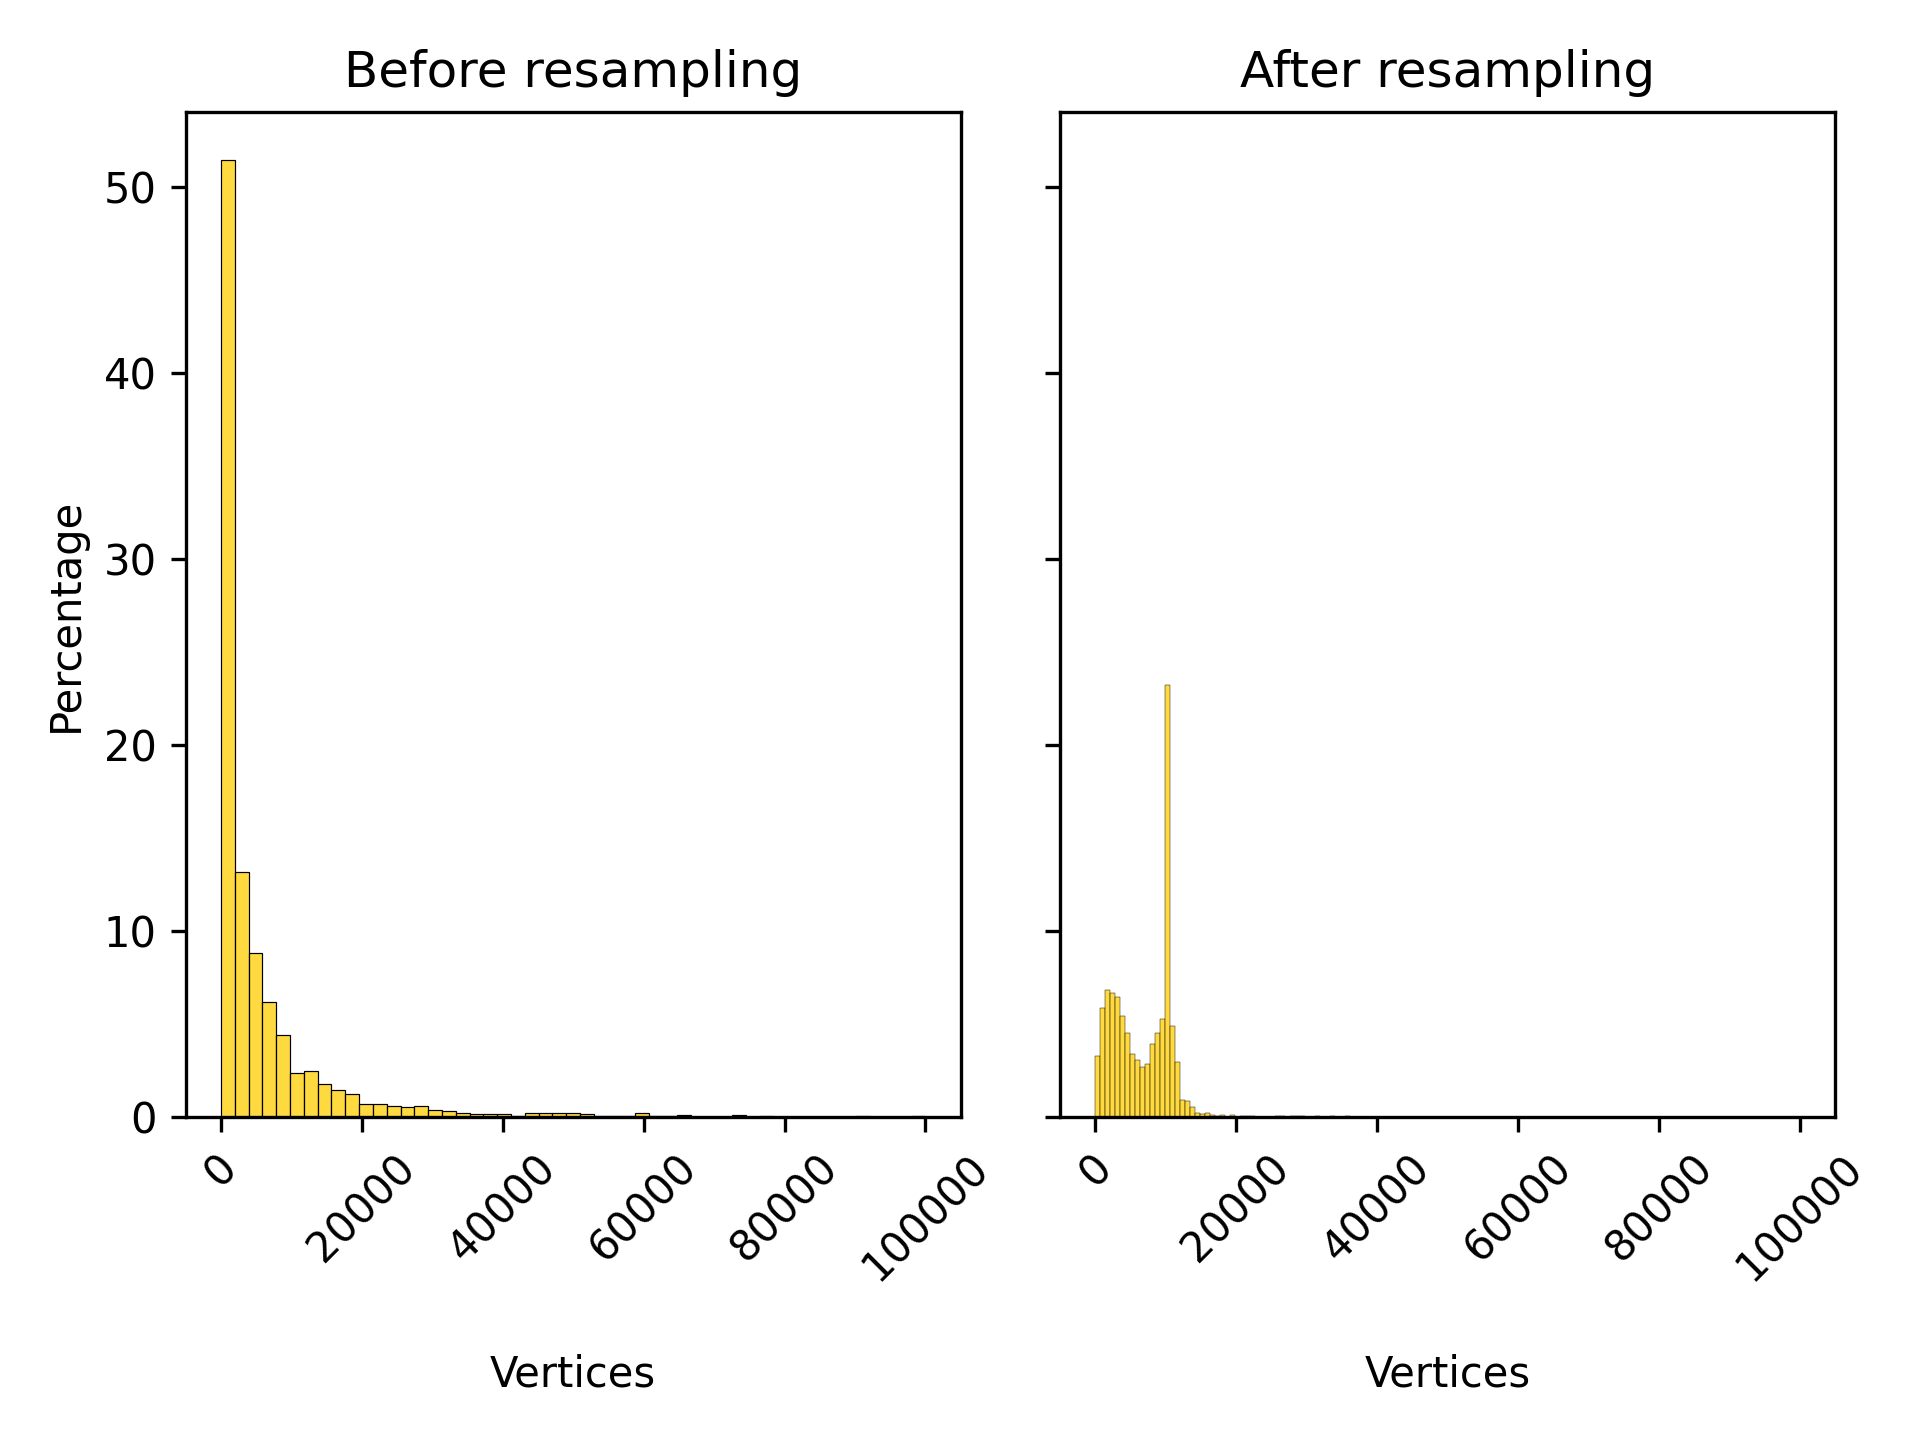
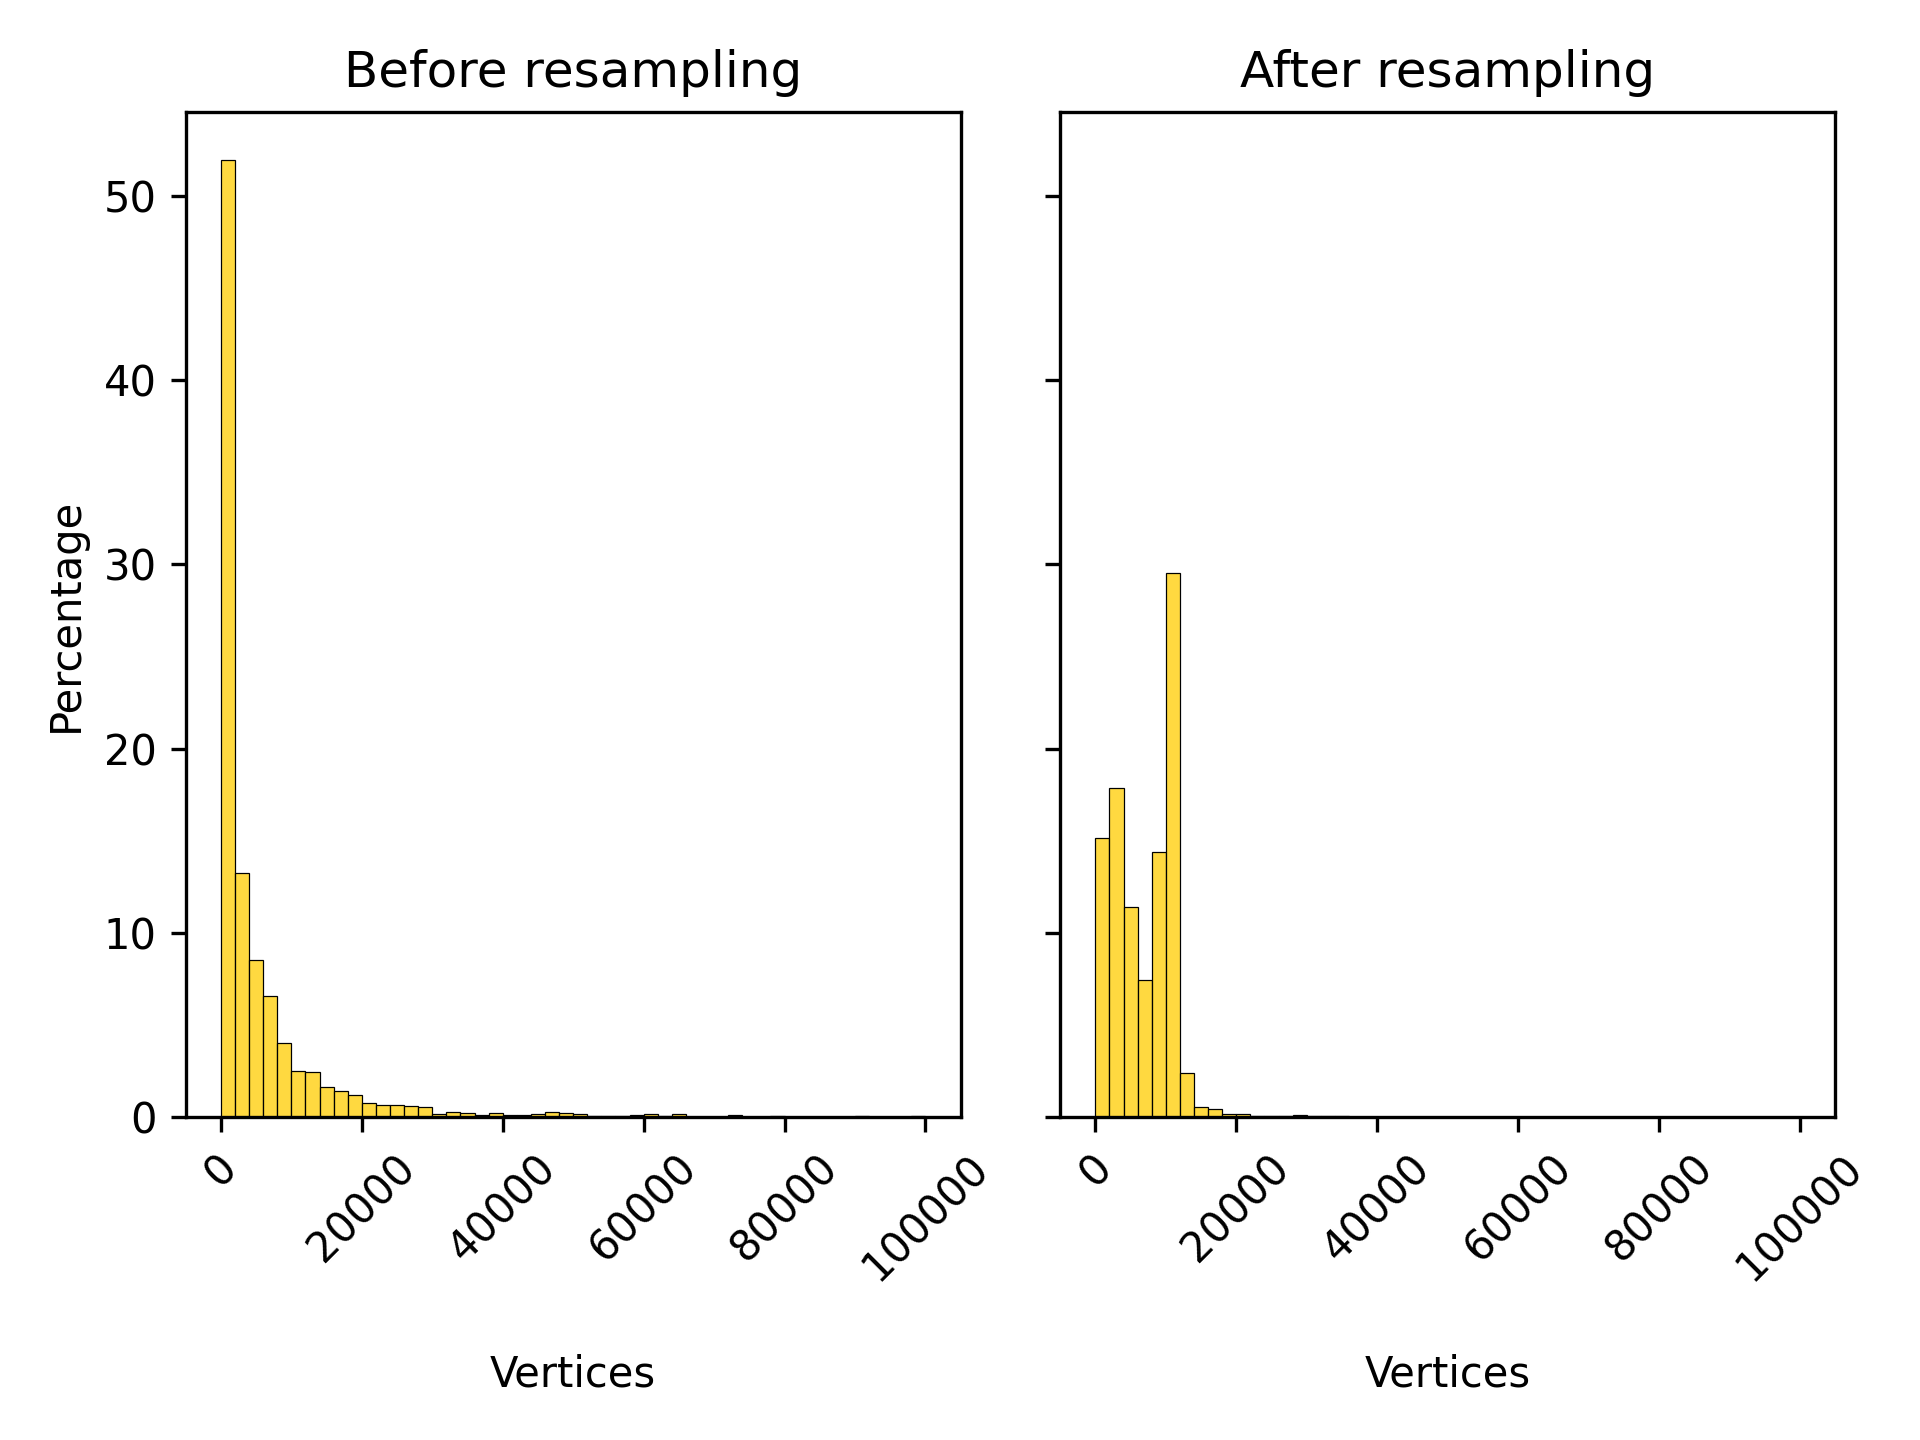
Fixed bin appearance on some histograms and added some examples of deformed meshes

diff --git a/Rorschach/visualization/visualize_data.py b/Rorschach/visualization/visualize_data.py
@@ -230,14 +230,14 @@ def hist_max_dim(mesh_info: pd.DataFrame, mesh_info_normalized: pd.DataFrame, co
     plt.clf()
 
 
-def hist_before_after(mesh_info, mesh_info_normalized, column: str, fp_save,
+def hist_before_after(mesh_info, mesh_info_normalized, column: str, fp_save, binwidth: float = None,
                       binrange: tuple = None, sharex: bool = True, sharey: bool = True) -> None:
     data_before = mesh_info[column].values
     data_after = mesh_info_normalized[column].values
 
     fig, axes = plt.subplots(1, 2, sharex=sharex, sharey=sharey)
-    sns.histplot(data=data_before, color=UU_YELLOW, ax=axes[0], stat="percent", edgecolor="black", bins="sqrt", binrange=binrange)
-    sns.histplot(data=data_after, color=UU_YELLOW, ax=axes[1], stat="percent", edgecolor="black", bins="sqrt", binrange=binrange)
+    sns.histplot(data=data_before, color=UU_YELLOW, ax=axes[0], stat="percent", edgecolor="black", bins="sqrt", binwidth=binwidth, binrange=binrange)
+    sns.histplot(data=data_after, color=UU_YELLOW, ax=axes[1], stat="percent", edgecolor="black", bins="sqrt", binwidth=binwidth, binrange=binrange)
 
     axes[0].set_ylabel("Percentage")
     axes[0].set_xlabel(f"\n{column}")
@@ -377,10 +377,10 @@ if __name__ == "__main__":
 
     # 2.3 Resampling outliers, original data vs after resampling
     hist_before_after(mesh_info_raw, mesh_info_cleaned, "Vertices",
-                      "./figures/step2/after_processing/hist_vertices.png", binrange=(0, 100_000))
+                      "./figures/step2/after_processing/hist_vertices.png", binwidth=2000, binrange=(0, 100_000))
     hist_before_after(mesh_info_raw, mesh_info_cleaned, "Faces",
-                      "./figures/step2/after_processing/hist_faces.png", binrange=(0, 100_000))
-    stats = summary_statistics("./data_cleaned/mesh_info.csv", n_decimals=0)
+                      "./figures/step2/after_processing/hist_faces.png", binwidth=2000, binrange=(0, 100_000))
+    stats = summary_statistics("./data_normalized/mesh_info.csv", n_decimals=0)
     # Only print mean number of vertices and faces
     print(f"After resampling: Mean vertices: {stats['Mean vertices']}; Mean faces: {stats['Mean faces']}")
 
